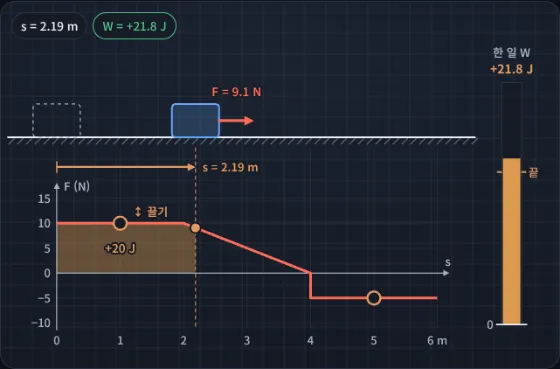
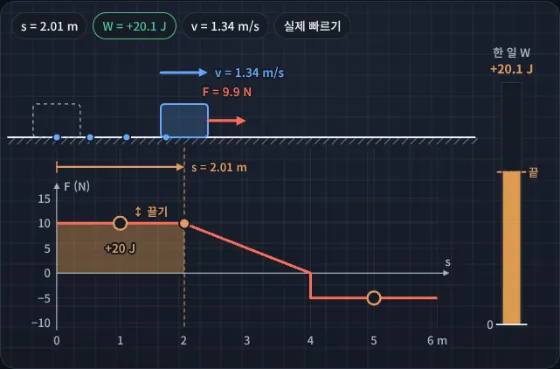
A2-01: 상자가 힘에 맞게 실제로 움직이도록 (변하는 힘 · 비스듬한 힘)
예전에는 힘이 줄거나 반대로 당겨도 상자가 늘 같은 빠르기로 움직였다.
이제 마찰 없는 바닥에서 이 힘 하나만 받는 실제 운동으로 움직인다.

- 변하는 힘: 50 kg, 처음 1 m/s → 0~4 m 에서 빨라지고(1.48 m/s) 4~6 m 에서 느려진다(1.34 m/s)
- 비스듬한 힘: 80 kg, 처음 2 m/s → θ < 90° 빨라짐, 90° 그대로, > 90° 느려짐
  (끝까지 멈추지 않게 F 는 25 N, s 는 6 m 까지)
- 바닥에 0.5 s 마다 찍은 상자 자리(점), 속도 화살표, HUD 에 지금 속력과 화면 빠르기
- 빗면 왕복은 원래 실제 운동의 ½ 빠르기라 「느린 화면 ×½」 로 밝힘
- 모형: 위치 ↔ 시각 표(motion · posAt · timeAt), 테스트 2개 추가

Claude-Session: https://claude.ai/code/session_01PAYXioMmNYUqFyQvqYnAEy

diff --git a/physics/A2/01/index.html b/physics/A2/01/index.html
@@ -36,8 +36,8 @@
   <main class="lay">
     <section class="bench" aria-label="실험대">
       <div class="stage">
-        <canvas id="stage" aria-label="바닥 위 상자가 오른쪽으로 움직이고, 바로 아래 같은 위치 축의 F–s 그래프에서 지나온 만큼 넓이가 칠해진다. 가로축 위 넓이(양의 일)와 아래 넓이(음의 일)를 다른 색으로 칠하고, 오른쪽 막대가 지금까지 한 일을 보인다. 상자나 그래프를 끌면 위치가, 힘 화살표 끝을 끌면 각이 바뀐다. 빗면 왕복 장면에서는 중력·수직항력·마찰력이 올라갈 때와 내려올 때 한 일을 막대로 보인다."></canvas>
-        <div class="hud"><span class="pill" id="hud1">s = 0 m</span><span class="pill" id="hud2">W = 0 J</span></div>
+        <canvas id="stage" aria-label="마찰 없는 바닥 위 상자가 이 힘 하나만 받으며 오른쪽으로 움직인다. 힘이 이동 방향이면 빨라지고 반대면 느려지며, 바닥의 점은 0.5초마다 찍은 상자 자리다. 바로 아래 같은 위치 축의 F–s 그래프에서 지나온 만큼 넓이가 칠해진다. 가로축 위 넓이(양의 일)와 아래 넓이(음의 일)를 다른 색으로 칠하고, 오른쪽 막대가 지금까지 한 일을 보인다. 상자나 그래프를 끌면 위치가, 힘 화살표 끝을 끌면 각이 바뀐다. 빗면 왕복 장면에서는 중력·수직항력·마찰력이 올라갈 때와 내려올 때 한 일을 막대로 보인다."></canvas>
+        <div class="hud"><span class="pill" id="hud1">s = 0 m</span><span class="pill" id="hud2">W = 0 J</span><span class="pill" id="hudV">v = 1 m/s</span><span class="pill" id="hudR" hidden>실제 빠르기</span></div>
         <span class="nowstep" id="nowstep" hidden></span>
       </div>
       <div class="dock">
@@ -63,8 +63,8 @@
             <div class="grow"><label class="ctl-label" for="F3"><span>4~6 m의 힘 F₃</span> <output id="F3Out">−5 N</output></label><input id="F3" type="range" min="-10" max="5" step="1" value="-5"></div>
           </div>
           <div class="row" id="rowTilt" hidden>
-            <div class="grow"><label class="ctl-label" for="Fm"><span>힘의 크기 F</span> <output id="FmOut">20 N</output></label><input id="Fm" type="range" min="5" max="30" step="1" value="20"></div>
-            <div class="grow"><label class="ctl-label" for="sE"><span>움직인 거리 s</span> <output id="sEOut">5 m</output></label><input id="sE" type="range" min="1" max="8" step="1" value="5"></div>
+            <div class="grow"><label class="ctl-label" for="Fm"><span>힘의 크기 F</span> <output id="FmOut">20 N</output></label><input id="Fm" type="range" min="5" max="25" step="1" value="20"></div>
+            <div class="grow"><label class="ctl-label" for="sE"><span>움직인 거리 s</span> <output id="sEOut">5 m</output></label><input id="sE" type="range" min="1" max="6" step="1" value="5"></div>
           </div>
           <div class="row" id="rowSpring" hidden>
             <div class="grow"><label class="ctl-label" for="kk"><span>용수철 상수 k</span> <output id="kkOut">200 N/m</output></label><input id="kk" type="range" min="100" max="300" step="50" value="200"></div>
@@ -101,7 +101,7 @@
           <span id="ansLines"><span class="v">넓이 = <em>10</em> × 2 + ½ × 2 × <em>10</em> + (<em>−5</em>) × 2</span><span class="v">= 20 + 10 − 10 = <em>20 J</em></span></span>
         </div>
         <div class="minis">
-          <div class="mini"><span id="mn1">지금 위치 s</span><b id="mv1">0 m</b></div>
+          <div class="mini"><span id="mn1">지금 속력 v (50 kg, 처음 1 m/s)</span><b id="mv1">1 m/s</b></div>
           <div class="mini"><span id="mn2">지금 힘 F(s)</span><b id="mv2">10 N</b></div>
           <div class="mini"><span id="mn3">양의 넓이 (에너지가 들어옴)</span><b id="mv3">+30 J</b></div>
           <div class="mini"><span id="mn4">음의 넓이 (에너지가 나감)</span><b id="mv4">−10 J</b></div>
@@ -113,7 +113,7 @@
         <li class="card step" data-step="① 이동 방향 성분">
           <div class="kind">관찰 1</div>
           <h3>이동 방향으로 민 성분만 일이 된다</h3>
-          <p>상자가 똑같이 s만큼 움직여도 힘의 방향에 따라 일은 다르다. 일은 힘의 크기가 아니라 <b>이동 방향으로 밀어 준 정도</b>를 재기 때문이다. 비스듬한 힘 F를 이동 방향 성분 F cos θ와 수직 성분 F sin θ로 나누면, 상자를 앞으로 미는 것은 F cos θ뿐이다: <span class="eq">W = Fs cos θ</span> (단위 J = N·m).</p>
+          <p>상자가 똑같이 s만큼 움직여도 힘의 방향에 따라 일은 다르다. 일은 힘의 크기가 아니라 <b>이동 방향으로 밀어 준 정도</b>를 재기 때문이다. 비스듬한 힘 F를 이동 방향 성분 F cos θ와 수직 성분 F sin θ로 나누면, 상자를 앞으로 미는 것은 F cos θ뿐이다: <span class="eq">W = Fs cos θ</span> (단위 J = N·m). 무대의 상자(80 kg)는 마찰 없는 바닥에서 2 m/s로 미끄러지며 이 힘을 받는다. θ가 90°보다 작으면 점점 빨라지고, 90°보다 크면 느려진다. 바닥의 파란 점은 0.5초마다 찍은 상자 자리라서, 점 사이가 벌어지면 빨라진 것이다.</p>
           <canvas class="flat" id="gTh" aria-label="힘과 이동 방향 사이 각 θ에 따른 일 W = Fs cosθ. 90°보다 작으면 양, 90°에서 0, 90°보다 크면 음이다. 지금 각을 점으로 표시."></canvas>
           <p class="cap">θ에 따른 일. 90°보다 작으면 양(+), 90°에서 0, 90°를 넘으면 음(−)이다. 무대의 힘 화살표 끝을 끌거나 θ 막대로 각을 바꿔 보자. F–s 그래프에는 이동 방향 성분 F cos θ만 올라가고, 그 넓이가 일이다.</p>
           <div class="acts">
@@ -126,7 +126,7 @@
         <li class="card step" data-step="② 수직인 힘은 일 0">
           <div class="kind">관찰 2</div>
           <h3>힘이 있어도 이동과 수직이면 일은 0이다</h3>
-          <p>수직항력 N과 중력 mg는 분명 상자에 작용하지만 이동 방향과 정확히 90°라 이동 방향 성분이 0이다. 상자를 앞으로 밀지도 뒤로 잡아당기지도 않으니 일은 0이다. 등속 원운동의 구심력도 늘 속도와 수직이라 일을 하지 않고, 그래서 속력이 그대로다.</p>
+          <p>수직항력 N과 중력 mg는 분명 상자에 작용하지만 이동 방향과 정확히 90°라 이동 방향 성분이 0이다. 상자를 앞으로 밀지도 뒤로 잡아당기지도 않으니 일은 0이다. 등속 원운동의 구심력도 늘 속도와 수직이라 일을 하지 않고, 그래서 속력이 그대로다. 무대에서 θ = 90°로 끌면 바닥의 점 사이가 일정하다(속력 그대로). 무대의 N·mg 화살표는 방향만 나타낸다.</p>
           <canvas class="flat" id="gCirc" aria-label="마찰 없는 수평면에서 실에 매여 원운동하는 물체를 위에서 본 모습. 장력은 늘 중심 쪽, 속도는 늘 접선 방향이라 둘 사이 각이 90°이고 장력이 한 일은 0이다."></canvas>
           <p class="cap">마찰 없는 수평면에서 실에 매여 도는 물체를 위에서 본 모습이다. 장력(구심력)은 늘 중심 쪽, 속도는 늘 접선 방향이라 둘 사이 각이 90°다. 같은 시간 간격으로 찍은 점의 간격이 같다(속력 일정). 고정된 빗면의 수직항력, 움직이지 않는 물체에 작용하는 힘도 같은 까닭으로 일을 하지 않는다.</p>
           <div class="acts">
@@ -149,7 +149,7 @@
         <li class="card step" data-step="④ 넓이 = 일">
           <div class="kind">관찰 4</div>
           <h3>힘이 변하면 F–s 그래프 아래 넓이가 일이다</h3>
-          <p>힘이 위치에 따라 변하면 Fs를 한 번에 곱할 수 없다. 이동을 잘게 쪼개 띠 F × Δs를 모두 더하면, Δs가 작을수록 그 합이 <b>F–s 그래프 아래 넓이</b>에 다가간다. 힘이 음(이동 반대)인 부분의 넓이는 음의 일로 빼 준다. 무대에서는 상자가 지나간 만큼 넓이가 칠해지고, 오른쪽 막대가 그만큼 오르내린다. (상자는 넓이가 쌓이는 모습을 보이려고 일정한 빠르기로 옮긴다. 실제 빠르기는 이 힘과 다른 힘을 모두 합쳐야 정해진다.)</p>
+          <p>힘이 위치에 따라 변하면 Fs를 한 번에 곱할 수 없다. 이동을 잘게 쪼개 띠 F × Δs를 모두 더하면, Δs가 작을수록 그 합이 <b>F–s 그래프 아래 넓이</b>에 다가간다. 힘이 음(이동 반대)인 부분의 넓이는 음의 일로 빼 준다. 무대에서는 상자가 지나간 만큼 넓이가 칠해지고, 오른쪽 막대가 그만큼 오르내린다. 상자(50 kg)는 마찰 없는 바닥에서 1 m/s로 움직이다가 이 힘 하나만 받는다. 힘이 이동 방향인 0~4 m에서는 빨라지고(속도 화살표가 길어진다), 반대 방향인 4~6 m에서는 느려진다. 양의 일은 상자에 에너지를 넣고 음의 일은 빼낸다. 이 관계는 다음 개념(일·운동 에너지 정리)에서 식으로 본다.</p>
           <canvas class="flat" id="gStrip" aria-label="예제의 F–s 그래프를 폭 Δs인 띠로 나눈 모습. 띠 넓이의 합이 Δs가 작아질수록 그래프 아래 넓이 20 J에 다가간다."></canvas>
           <p class="cap">띠의 높이는 띠 왼쪽 끝의 힘이다. Δs = 1 m이면 25 J, 0.5 m이면 22.5 J, 0.1 m이면 20.5 J로 넓이 20 J에 다가간다. 용수철은 F = kx가 직선이라 넓이가 삼각형 <span class="eq">½kx²</span>이고, 이것이 탄성 퍼텐셜 에너지다.</p>
           <div class="acts">
@@ -213,6 +213,10 @@
   const RAD = Math.PI / 180;
   const SN = 0.6, CS = 0.8, ANG = 37, TM = 1, TD = 4, P0 = 0.6;   // 빗면 왕복: 1 kg, 37°(sin 0.6), 빗면 아래 끝에서 0.6 m 인 곳에서 4 m 올라갔다 내려옴
   const EX = {F1: 10, F3: -5};
+  // 상자의 실제 운동: 마찰 없는 바닥에서 이 힘 하나만 받는다 (수직항력·중력은 이동과 수직 → 속력을 바꾸지 않음)
+  const GM = 50, GV = 1;          // 변하는 힘: 50 kg 상자, 처음 1 m/s → 처음 운동 에너지 25 J (슬라이더 어디서도 6 m 까지 간다)
+  const TMS = 80, TV = 2;         // 비스듬한 힘: 80 kg 상자, 처음 2 m/s → 160 J (25 N 으로 6 m 를 정반대로 당겨도 끝까지 간다)
+  const DT = 0.5;                 // 바닥의 점: 0.5 s 마다 찍은 상자 자리
   const SCENES = ['graph', 'tilt', 'slope', 'spring'];
 
   // ── 상태 ────────────────────────────────────────────────
@@ -236,9 +240,18 @@
     if (S.scene === 'spring') return M.springSegs(S.k, S.x1, S.x2);
     return M.exampleSegs(S.F1, S.F3);
   }
+  const moving = () => S.scene === 'graph' || S.scene === 'tilt';   // 실제 운동으로 움직이는 장면
+  const boxMV = () => (S.scene === 'tilt' ? [TMS, TV] : [GM, GV]);
+  let moKey = '', moTab = null;
+  function mot() {                                       // 지금 조건의 위치 ↔ 시각 표. 조건이 바뀌면 지금 위치에 시각을 맞춘다
+    const [m, v0] = boxMV(), key = [S.scene, S.F1, S.F3, S.F, S.th, S.sE].join('|');
+    if (key !== moKey) { moKey = key; moTab = M.motion(segsNow(), m, v0, range()[1]); S.t = M.timeAt(moTab, S.pos); }
+    return moTab;
+  }
+  const vNow = () => { const [m, v0] = boxMV(); return M.speedAt(segsNow(), m, v0, S.pos); };
   const lerpF = (q, s) => q.F0 + (q.F1 - q.F0) * (s - q.s0) / (q.s1 - q.s0);
   const Wto = (s) => M.areaTo(segsNow(), s);
-  const rate = () => (S.scene === 'spring' ? 0.07 : 1.25);       // 상자를 옮기는 빠르기 (그림 단위/s)
+  const rate = () => 0.07;                                         // 용수철을 천천히 늘이는 빠르기 (m/s)
 
   // ── 작은 도우미 ─────────────────────────────────────────
   function floor(ctx, x0, x1, y) {
@@ -383,7 +396,7 @@
       text(ctx, J(v, 1), X(mid), y, {size: 13.5, w: 600, color: v >= 0 ? C.copper : C.neg, halo: true});
     };
     if (S.scene === 'graph') M.examplePieces(S.F1, S.F3).forEach((p) => put(p.from, p.to, (e) => M.areaTo(segs, e) - M.areaTo(segs, p.from)));
-    else if (S.scene === 'tilt') put(0, S.sE, (e) => M.areaTo(segs, e));
+    else if (S.scene === 'tilt') { if (Math.abs(M.along(S.F, S.th)) > 0.05) put(0, S.sE, (e) => M.areaTo(segs, e)); }   // θ = 90°: 넓이 0 은 「F cos θ = 0 N」 이 대신 말한다
     else put(S.x1, S.x2, (e) => M.areaTo(segs, e));
   }
   function dispArrow(ctx, g, a, s, lab) {                     // 처음 자리에서 지금까지 (구리색 치수선)
@@ -401,9 +414,19 @@
       Lab.rrect(ctx, g.X(a) - g.bw / 2, top, g.bw, g.bh, 4); ctx.stroke(); ctx.restore();
     }
     dispArrow(ctx, g, a, s, 's = ' + fmt(s, 2) + ' m');
+    if (moving()) {                                            // 바닥의 점: 0.5 s 마다 찍은 상자 자리 (간격이 넓어지면 빨라진 것)
+      const mo = mot(), tNow = M.timeAt(mo, s), r = g.n ? 3.8 : 4.4;
+      for (let k = 0; k * DT <= tNow + 1e-9 && k < 80; k++) Lab.circle(ctx, g.X(M.posAt(mo, k * DT)), g.yF, r, {fill: C.vel, stroke: C.paper, width: 1.6});
+    }
     ctx.save(); Lab.rrect(ctx, cx - g.bw / 2, top, g.bw, g.bh, 4); ctx.fillStyle = C['vel-soft']; ctx.fill();
     ctx.lineWidth = 2; ctx.strokeStyle = C.vel; ctx.stroke(); ctx.restore();
     if (g.tilt) drawTiltForces(ctx, g, cx, cy); else drawVarForce(ctx, g, cx, cy, s);
+    if (S.scene === 'graph') {                                 // 속도: 힘이 이동 방향이면 길어지고, 반대면 짧아진다 (상자 위 가운데)
+      const v = vNow(), vL = v * (g.n ? 26 : 40), vy = top - (g.n ? 30 : 36), x0 = cx - vL / 2;
+      arrow(ctx, x0, vy, x0 + vL, vy, C.vel, 3, 10);
+      const vs = 'v = ' + fmt(v, 2) + ' m/s', vw = Lab.measure(ctx, vs, {size: 13.5, w: 600}), right = x0 + vL + 8 + vw < (g.meter ? stage.W - 100 : stage.W - 6);
+      text(ctx, vs, right ? x0 + vL + 8 : x0 - 8, vy, {size: 13.5, w: 600, color: C.vel, align: right ? 'left' : 'right', halo: true});
+    }
   }
   function drawVarForce(ctx, g, cx, cy, s) {
     const F = M.forceAt(segsNow(), s), L = F * g.kF;
@@ -713,6 +736,12 @@
     setText('hud1', t1); setText('hud2', t2);
     const c = 'pill' + (w == null ? '' : w > 0.005 ? ' up' : w < -0.005 ? ' down' : '');
     if ($('hud2').className !== c) $('hud2').className = c;
+    // 지금 속력 (변하는 힘·비스듬한 힘·빗면) 과 화면 빠르기 (넓은 무대)
+    const sc = S.scene, v = sc === 'slope' ? Math.abs(M.tripAt(trip(), S.t).v) : moving() ? vNow() : null;
+    $('hudV').hidden = v == null; if (v != null) setText('hudV', 'v = ' + fmt(v, 2) + ' m/s');
+    const f = (sc === 'slope' ? 0.5 : 1) * S.speed, part = (x) => ({0.5: '½', 0.25: '¼'}[x] || fmt(x, 2));
+    $('hudR').hidden = (stage.W || 999) < 520 || sc === 'spring';
+    setText('hudR', Math.abs(f - 1) < 1e-9 ? '실제 빠르기' : f < 1 ? '느린 화면 ×' + part(f) : '빠른 화면 ×' + fmt(f, 0));
   }
   function readouts() {
     const s = S.pos, sc = S.scene;
@@ -723,7 +752,7 @@
         '= ' + fmt(pcs[0].W, 1) + ' + ' + fmt(pcs[1].W, 1) + (pcs[2].W < 0 ? ' − ' + fmt(-pcs[2].W, 1) : ' + ' + fmt(pcs[2].W, 1)) + ' = <em>' + fmt(tot, 1) + ' J</em>',
         '지금 s = <em>' + fmt(s, 2) + ' m</em> 까지 넓이 = <em>' + J(w) + '</em>'],
       {tone: tone(tot), lab: '0 ~ 6 m 동안 이 힘이 한 일', ctx: 'F₁ = ' + fmt(S.F1, 1) + ' N · F₃ = ' + fmt(S.F3, 1) + ' N', f: 'W = F–s 그래프 아래 넓이 (가로축 아래는 빼기) 에 지금 값을 넣으면'});
-      setMini(1, '지금 위치 s', fmt(s, 2) + ' m'); setMini(2, '지금 힘 F(s)', fmt(M.forceAt(segs, s), 1) + ' N');
+      setMini(1, '지금 속력 v (50 kg, 처음 1 m/s)', fmt(vNow(), 2) + ' m/s'); setMini(2, '지금 힘 F(s)', fmt(M.forceAt(segs, s), 1) + ' N');
       setMini(3, '양의 넓이 (에너지가 들어옴)', J(p.pos)); setMini(4, '음의 넓이 (에너지가 나감)', p.neg > 0.005 ? '−' + fmt(p.neg, 1) + ' J' : '0 J');
       hudSet('s = ' + fmt(s, 2) + ' m', 'W = ' + J(w), w);
     } else if (sc === 'tilt') {
@@ -734,7 +763,7 @@
         '수직 성분 F sin θ = ' + fmt(pe, 1) + ' N, 수직항력·중력 → 이동과 90° → 일 0'],
       {tone: tone(W), lab: '비스듬한 힘 F 가 한 일', ctx: 'F = ' + S.F + ' N · θ = ' + S.th + '° · s = ' + S.sE + ' m', f: 'W = Fs cos θ 에 지금 값을 넣으면'});
       setMini(1, 'F cos θ (이동 방향 성분)', fmt(al, 1) + ' N'); setMini(2, 'F sin θ (수직 성분, 일 0)', fmt(pe, 1) + ' N');
-      setMini(3, '지금까지 간 거리', fmt(s, 2) + ' m'); setMini(4, '지금까지 한 일', J(w));
+      setMini(3, '지금 속력 v (80 kg, 처음 2 m/s)', fmt(vNow(), 2) + ' m/s'); setMini(4, '지금까지 한 일', J(w));
       hudSet('θ = ' + S.th + '°', 'W = ' + J(w), w);
     } else if (sc === 'spring') {
       const a = S.k * S.x1, b = S.k * S.x2, W = M.springWork(S.k, S.x1, S.x2), w = M.areaTo(segsNow(), s);
@@ -793,6 +822,7 @@
     const [a, b] = range();
     S.pos = Math.max(a, Math.min(b, p));
     if (S.scene === 'slope') { const T = trip(); S.t = M.tripTime(T, S.pos); if (S.pos >= b - 1e-9) S.t = T.tUp + T.tDn; }
+    else if (moving()) S.t = M.timeAt(mot(), S.pos);
   }
   function restart() { const [a] = range(); S.hold = 0; S.t = 0; setPos(a); }
   function syncUI() {
@@ -886,6 +916,12 @@
       if (S.t >= end - 1e-9) { S.hold += dt; if (S.hold > 1.6) { S.hold = 0; S.t = 0; } }
       else S.t = Math.min(end, S.t + dt * 0.5);
       S.pos = Math.min(b, M.tripAt(T, S.t).L);
+      return;
+    }
+    if (moving()) {                                            // 실제 운동: 위치 ↔ 시각 표를 따라간다
+      const mo = mot();
+      if (S.pos >= b - 1e-9) { S.hold += dt; if (S.hold > 1.6) { S.hold = 0; S.t = 0; S.pos = a; } return; }
+      S.t = Math.min(mo.T, S.t + dt); S.pos = S.t >= mo.T - 1e-9 ? b : M.posAt(mo, S.t);
       return;
     }
     if (S.pos >= b - 1e-9) { S.hold += dt; if (S.hold > 1.6) { S.hold = 0; S.pos = a; } return; }

diff --git a/physics/A2/01/A2-01-model.js b/physics/A2/01/A2-01-model.js
@@ -104,12 +104,47 @@
     return T.tUp + Math.sqrt(2 * Math.min(L - d, d) / T.aDn);
   }
 
+  // ── 상자의 실제 운동 (변하는 힘 · 비스듬한 힘 장면) ─────
+  // 마찰 없는 바닥에서 질량 m, 처음 속력 v0 으로 움직이던 상자가 이동 방향 성분이 segs(F–s 그래프)인 힘 하나만 받는다.
+  // 수직항력·중력(과 힘의 수직 성분)은 이동과 수직이라 속력을 바꾸지 않으므로, 위치 s 에서 운동 에너지는
+  // K(s) = ½mv0² + (0~s 넓이) 이고 속력은 v(s) = √(2K/m). 시각은 t(s) = ∫ ds / v (멈추지 않는 범위, 늘 K > 0 에서 쓴다).
+  const kinAt = (segs, m, v0, s) => m * v0 * v0 / 2 + areaTo(segs, s);
+  const speedAt = (segs, m, v0, s) => { const K = kinAt(segs, m, v0, s); return K > 0 ? Math.sqrt(2 * K / m) : 0; };
+  function minKin(segs, m, v0, sEnd, n = 600) {         // 0 ~ sEnd 에서 가장 작은 운동 에너지 (0 보다 커야 끝까지 간다)
+    let k = Infinity;
+    for (let i = 0; i <= n; i++) k = Math.min(k, kinAt(segs, m, v0, i * sEnd / n));
+    return k;
+  }
+  function motion(segs, m, v0, sEnd, n = 600) {          // 위치 → 시각 표 (1/v 를 사다리꼴로 더한다)
+    const ds = sEnd / n, ts = [0];
+    let prev = 1 / Math.max(1e-9, speedAt(segs, m, v0, 0));
+    for (let i = 1; i <= n; i++) {
+      const inv = 1 / Math.max(1e-9, speedAt(segs, m, v0, i * ds));
+      ts.push(ts[i - 1] + ds * (prev + inv) / 2); prev = inv;
+    }
+    return {m, v0, sEnd, n, ds, ts, T: ts[n]};
+  }
+  function posAt(mo, t) {                                // 시각 t 의 위치
+    if (t <= 0) return 0;
+    if (t >= mo.T) return mo.sEnd;
+    let lo = 0, hi = mo.n;
+    while (hi - lo > 1) { const mid = (lo + hi) >> 1; if (mo.ts[mid] <= t) lo = mid; else hi = mid; }
+    return (lo + (t - mo.ts[lo]) / (mo.ts[hi] - mo.ts[lo])) * mo.ds;
+  }
+  function timeAt(mo, s) {                               // 위치 s 에 이르는 시각
+    if (s <= 0) return 0;
+    if (s >= mo.sEnd) return mo.T;
+    const x = s / mo.ds, i = Math.min(mo.n - 1, Math.floor(x));
+    return mo.ts[i] + (x - i) * (mo.ts[i + 1] - mo.ts[i]);
+  }
+
   // ── 그 밖 ───────────────────────────────────────────────
   const gravityWork = (m, drop, g = G) => m * g * drop;    // 내려간 높이 × mg (경로 무관, = −ΔEp)
   const power = (F, v) => F * v;                           // (교과 심화) 일정한 속력으로 끌 때 P = Fv
 
   const api = {G, RAD, cosD, sinD, work, along, perp, sign, kind, dot, seg, forceAt, areaTo, parts, exampleSegs, examplePieces,
-    riemann, springForce, elasticPE, springWork, springSegs, slopeTrip, tripWorks, tripAngles, tripAt, tripTime, gravityWork, power};
+    riemann, springForce, elasticPE, springWork, springSegs, slopeTrip, tripWorks, tripAngles, tripAt, tripTime,
+    kinAt, speedAt, minKin, motion, posAt, timeAt, gravityWork, power};
   if (typeof module !== 'undefined' && module.exports) module.exports = api;
   else root.A2_01 = api;
 })(typeof window !== 'undefined' ? window : globalThis);
